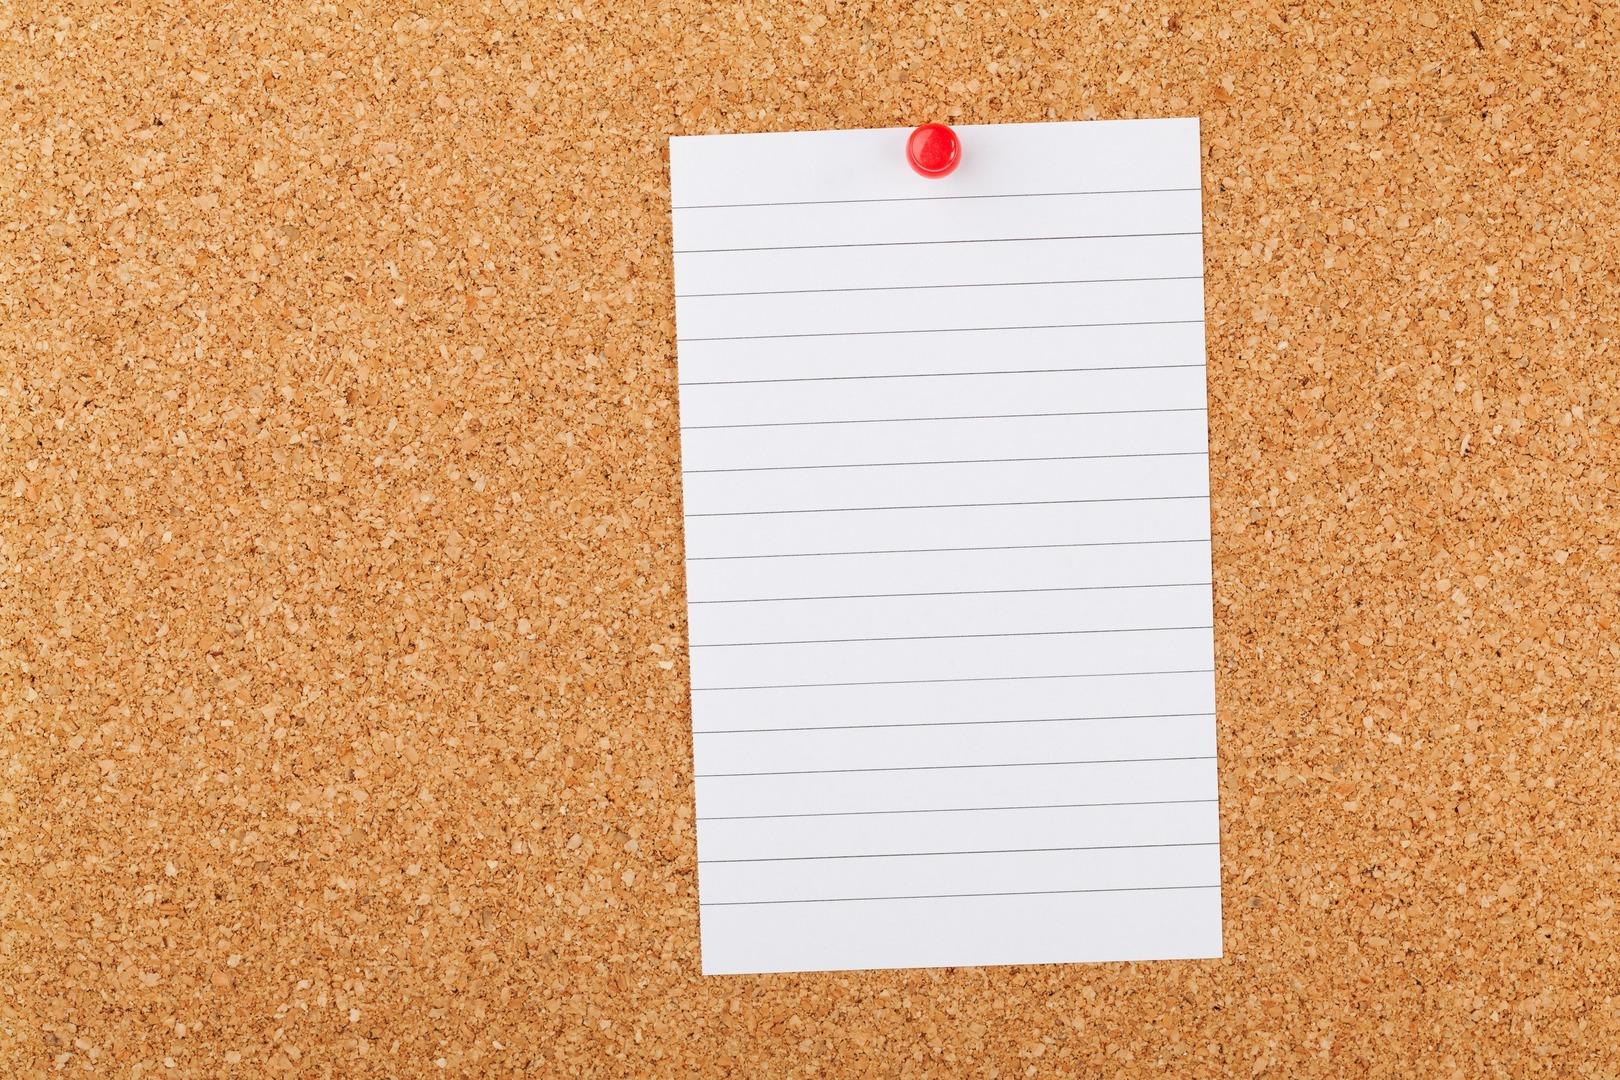
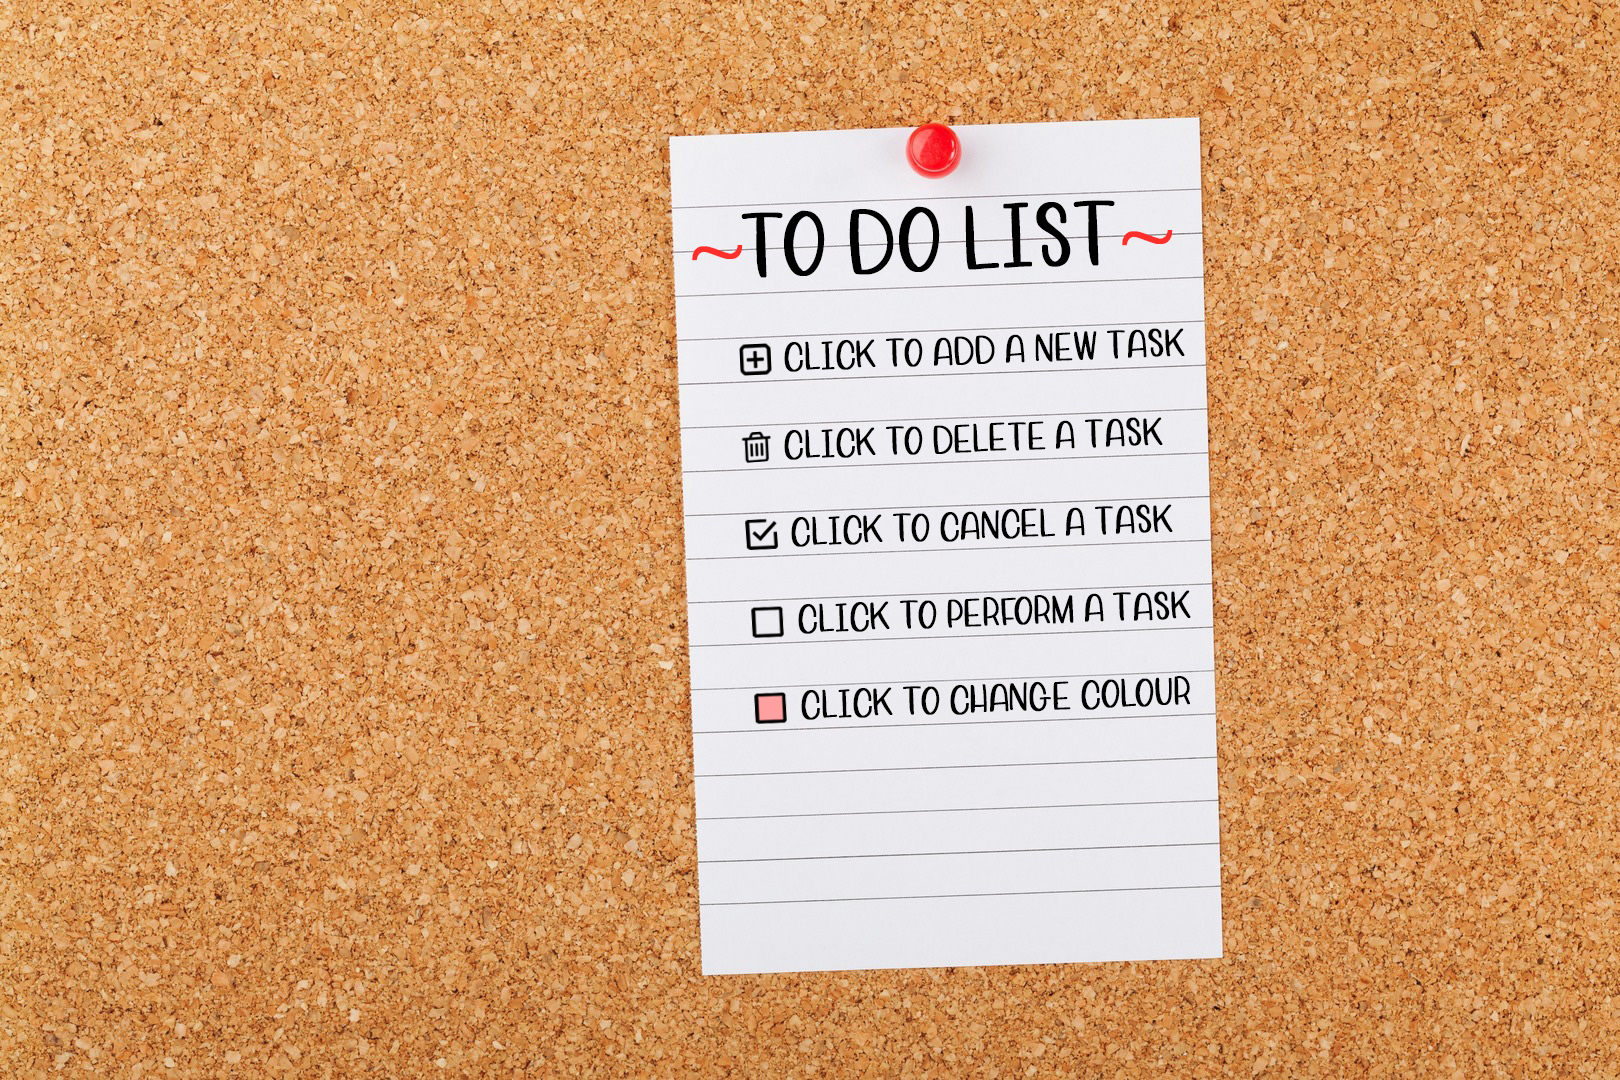
add colour

diff --git a/src/components/Task/Task.js b/src/components/Task/Task.js
@@ -1,10 +1,15 @@
 import React, {useState, useEffect} from 'react';
 import s from './Task.module.css';
+import cn from 'classnames';
 import buttonDelete from './../../img/delete.png';
 import buttonPerform from './../../img/check_empty.png';
 import buttonCancel from './../../img/check_fill.png';
+import iconBlue from './../../img/icon_blue.png';
+import iconGreen from './../../img/icon_green.png';
+import iconPink from './../../img/icon_pink.png';
+import iconYellow from './../../img/icon_yellow.png';
 
-const Task = ({id, performed, task, deleteTask, performTask, updateTask}) => {
+const Task = ({id, performed, task, deleteTask, performTask, updateTask, changeColour, indexColour}) => {
     const [editMode, setEditMode] = useState(false);
 
     const onEditMode = () => {
@@ -27,28 +32,59 @@ const Task = ({id, performed, task, deleteTask, performTask, updateTask}) => {
         updateTask(id, e.currentTarget.value);
     };
 
+    const changeColourIcon = (id, indexColour) => {
+        changeColour(id, indexColour);
+    };
+
+    const colourList = {
+        0: s.colourBlue,
+        1: s.colourGreen,
+        2: s.colourPink,
+        3: s.colourYellow
+    };
+
     return (
-        <div className={s.blank}>
-            <div className={s.textTask}>
-                {editMode && <div className={s.text}>
+        <div>
+            <div className={cn(s.blank, colourList[indexColour])}>
+                <div className={s.iconWithText}>
+                    <div className={s.iconColour}>
+                        <div className={s.pressButton}
+                             onClick={() => changeColourIcon(id, 0)}><img src={iconBlue}/>
+                        </div>
+                        <div className={s.pressButton}
+                             onClick={() => changeColourIcon(id, 1)}><img src={iconGreen}/>
+                        </div>
+                        <div className={s.pressButton}
+                             onClick={() => changeColourIcon(id, 2)}><img src={iconPink}/>
+                        </div>
+                        <div className={s.pressButton}
+                             onClick={() => changeColourIcon(id, 3)}><img src={iconYellow}/>
+                        </div>
+                    </div>
+                    <div className={s.textTask}>
+                        {editMode && <div className={s.text}>
                     <textarea autoFocus
                               value={task}
                               onBlur={offEditMode}
                               onChange={(e) => handleChange(id, e)}/>
-                </div>}
-                {!editMode && <div className={s.text}>
-                    <span onDoubleClick={onEditMode}>{task}</span>
-                </div>}
-            </div>
-            <div className={s.buttonControl}>
-                <div className={s.buttonIcon}>
-                    <div onClick={() => handlePerform(id)}>
-                        {performed && <img src={buttonCancel}/> || <img src={buttonPerform}/>}
+                        </div>}
+                        {!editMode && <div className={s.text}>
+                            <span onDoubleClick={onEditMode}>{task}</span>
+                        </div>}
                     </div>
                 </div>
-                <div className={s.buttonIcon}>
-                    <div onClick={() => handleDelete(id)}>
-                        <img src={buttonDelete}/>
+                <div className={s.buttonControl}>
+                    <div className={s.buttonIcon}>
+                        <div className={s.pressButton}
+                             onClick={() => handlePerform(id)}>
+                            {performed && <img src={buttonCancel}/> || <img src={buttonPerform}/>}
+                        </div>
+                    </div>
+                    <div className={s.buttonIcon}>
+                        <div className={s.pressButton}
+                             onClick={() => handleDelete(id)}>
+                            <img src={buttonDelete}/>
+                        </div>
                     </div>
                 </div>
             </div>

diff --git a/src/components/ToDoList/ToDoList.js b/src/components/ToDoList/ToDoList.js
@@ -1,35 +1,38 @@
 import React from 'react';
 import Task from "../Task/Task";
 import {connect} from "react-redux";
-import {addTask, deleteTask, performTask, updateTask} from "../../redux/task_reducer";
+import {addTask, changeIconColour, deleteTask, performTask, updateTask} from '../../redux/task_reducer';
 import buttonAdd from './../../img/add.png';
 import s from './ToDoList.module.css';
+import cn from 'classnames';
 
 const ToDoList = (props) => {
     const addTask = () => {
         props.addTask('hi!');
     };
 
-    // document.addEventListener('mousemove', () => console.log('mousemove'));
-    // document.addEventListener('mousedown', (e) => console.log(e));
-    // document.addEventListener('mouseup', () => console.log('mouseup'));
-
     return (
         <div>
-            <div></div>
-            <div className={s.buttonIcon}
-                 onClick={addTask}>
-                <img src={buttonAdd}/>
+            <div className={s.addNewTask}>
+                <div className={cn(s.buttonIcon, s.pressButton)}
+                     onClick={addTask}>
+                    <img src={buttonAdd}/>
+                </div>
+                <div>Add new task</div>
             </div>
-            {props.tasks.map(item =>
-                <Task key={item.id}
-                      id={item.id}
-                      performed={item.performed}
-                      task={item.task}
-                      deleteTask={props.deleteTask}
-                      performTask={props.performTask}
-                      updateTask={props.updateTask}/>
-            )}
+            <div className={s.areaToDoList}>
+                {props.tasks.map(item =>
+                    <Task key={item.id}
+                          id={item.id}
+                          indexColour={item.colour}
+                          performed={item.performed}
+                          task={item.task}
+                          deleteTask={props.deleteTask}
+                          performTask={props.performTask}
+                          updateTask={props.updateTask}
+                          changeColour={props.changeColour}/>
+                )}
+            </div>
         </div>
     )
 }
@@ -45,7 +48,8 @@ const mapDispatchToProps = (dispatch) => {
         addTask: text => dispatch(addTask(text)),
         deleteTask: id => dispatch(deleteTask(id)),
         performTask: id => dispatch(performTask(id)),
-        updateTask: (id, text) => dispatch(updateTask(id, text))
+        updateTask: (id, text) => dispatch(updateTask(id, text)),
+        changeColour: (id, indexColour) => dispatch(changeIconColour(id, indexColour))
     }
 };
 

diff --git a/src/redux/task_reducer.js b/src/redux/task_reducer.js
@@ -2,9 +2,10 @@ const ADD_TASK = 'ADD_TASK';
 const PERFORM_TASK = 'PERFORM_TASK';
 const UPDATE_TASK = 'UPDATE_TASK';
 const DELETE_TASK = 'DELETE_TASK';
+const CHANGE_ICON_COLOUR = 'CHANGE_ICON_COLOUR';
 
 const initialState = {
-    tasks: [{id: 1, performed: false, task: 'hi!'}]
+    tasks: [{id: 1, performed: false, task: 'hi!', colour: 0}]
 };
 
 export const taskReducer = (state = initialState, action) => {
@@ -14,7 +15,10 @@ export const taskReducer = (state = initialState, action) => {
                 ...state, tasks: [...state.tasks, {
                     id: Math.max(...state.tasks.map(item => {
                         return item.id
-                    })) + 1, performed: false, task: action.text
+                    })) + 1,
+                    performed: false,
+                    task: action.text,
+                    colour: 0
                 }]
             };
             break;
@@ -39,7 +43,18 @@ export const taskReducer = (state = initialState, action) => {
             };
             break;
         case DELETE_TASK:
+            if (state.tasks.length === 1) return state;
             return {...state, tasks: state.tasks.filter(item => item.id !== action.id)};
+            break;
+        case CHANGE_ICON_COLOUR:
+            return {
+                ...state, tasks: state.tasks.map((item) => {
+                    if (item.id === action.id) {
+                        return {...item, colour: action.indexColour}
+                    }
+                    return item;
+                })
+            };
             break;
         default:
             return state;
@@ -60,4 +75,8 @@ export const updateTask = (id, text) => {
 
 export const deleteTask = (id) => {
     return {type: 'DELETE_TASK', id}
+}
+
+export const changeIconColour = (id, indexColour) => {
+    return {type: 'CHANGE_ICON_COLOUR', id, indexColour}
 }

diff --git a/src/components/Task/Task.module.css b/src/components/Task/Task.module.css
@@ -1,12 +1,28 @@
 .blank {
     width: 250px;
     height: 250px;
-    background: url('../../img/blank.png') no-repeat;
+    margin: 10px;
+}
+
+.colourBlue {
+    background: url('../../img/blank_blue.png') no-repeat;
+}
+
+.colourGreen {
+    background: url('../../img/blank_green.png') no-repeat;
+}
+
+.colourYellow {
+    background: url('../../img/blank_yellow.png') no-repeat;
+}
+
+.colourPink {
+    background: url('../../img/blank_pink.png') no-repeat;
 }
 
 .textTask {
-    padding-left: 50px;
-    padding-top: 50px;
+    padding-left: 10px;
+    padding-top: 40px;
     font-weight: bold;
 }
 
@@ -25,4 +41,17 @@
     width: 150px;
     height: 150px;
     word-wrap: break-word;
+}
+
+.iconColour {
+    margin-top: auto;
+    cursor: pointer;
+}
+
+.iconWithText {
+    display: flex;
+}
+
+.pressButton:active {
+    transform: translateY(2px);
 }

diff --git a/src/components/ToDoList/ToDoList.module.css b/src/components/ToDoList/ToDoList.module.css
@@ -2,3 +2,18 @@
     width: 32px;
     cursor: pointer;
 }
+
+.addNewTask {
+    display: flex;
+    font-size: 20px;
+    font-weight: bold;
+}
+
+.areaToDoList {
+    display: flex;
+    flex-wrap: wrap;
+}
+
+.pressButton:active {
+    transform: translateY(2px);
+}

diff --git a/src/ItemTypes.js b/src/ItemTypes.js
@@ -1,0 +1,3 @@
+export default {
+    BOX: 'box',
+}
